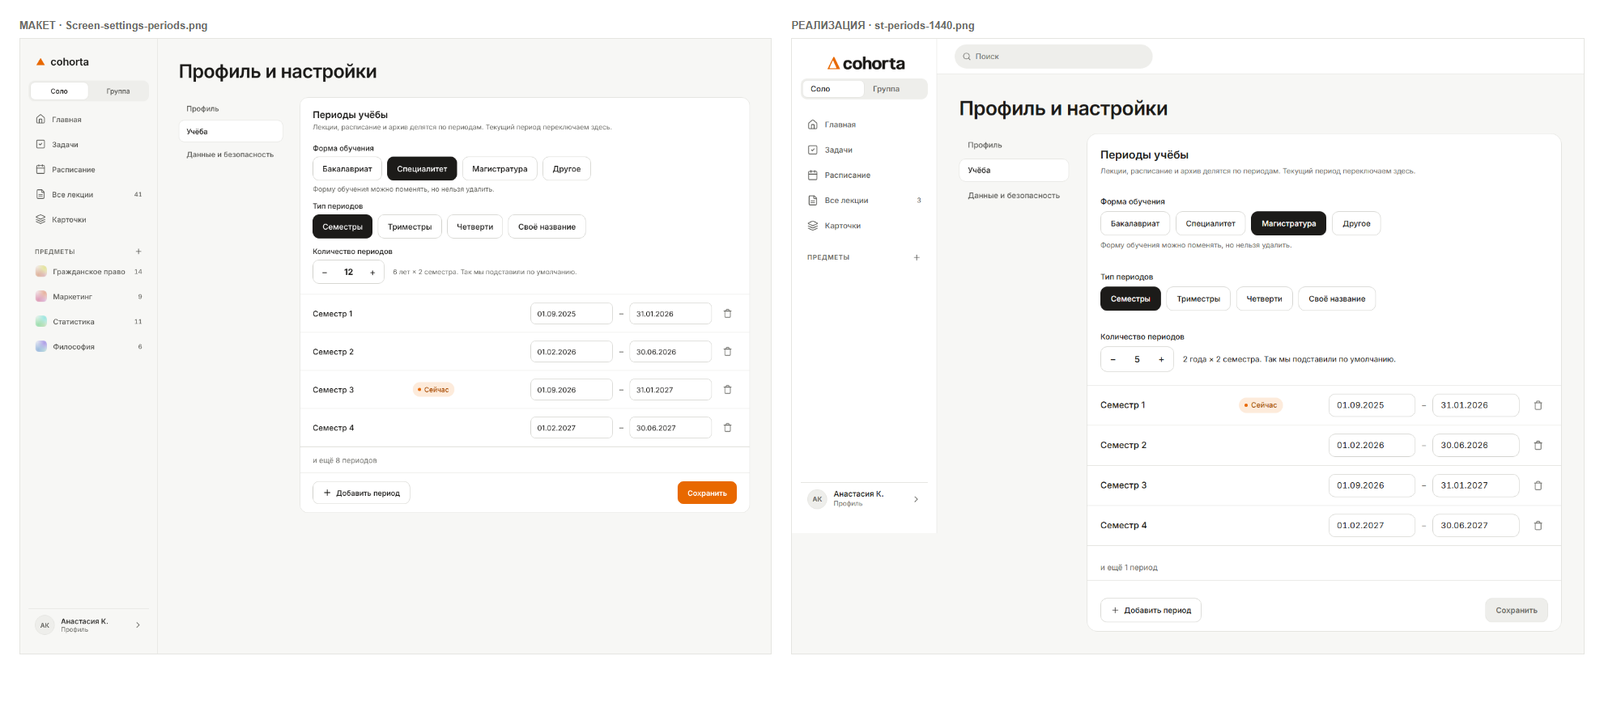
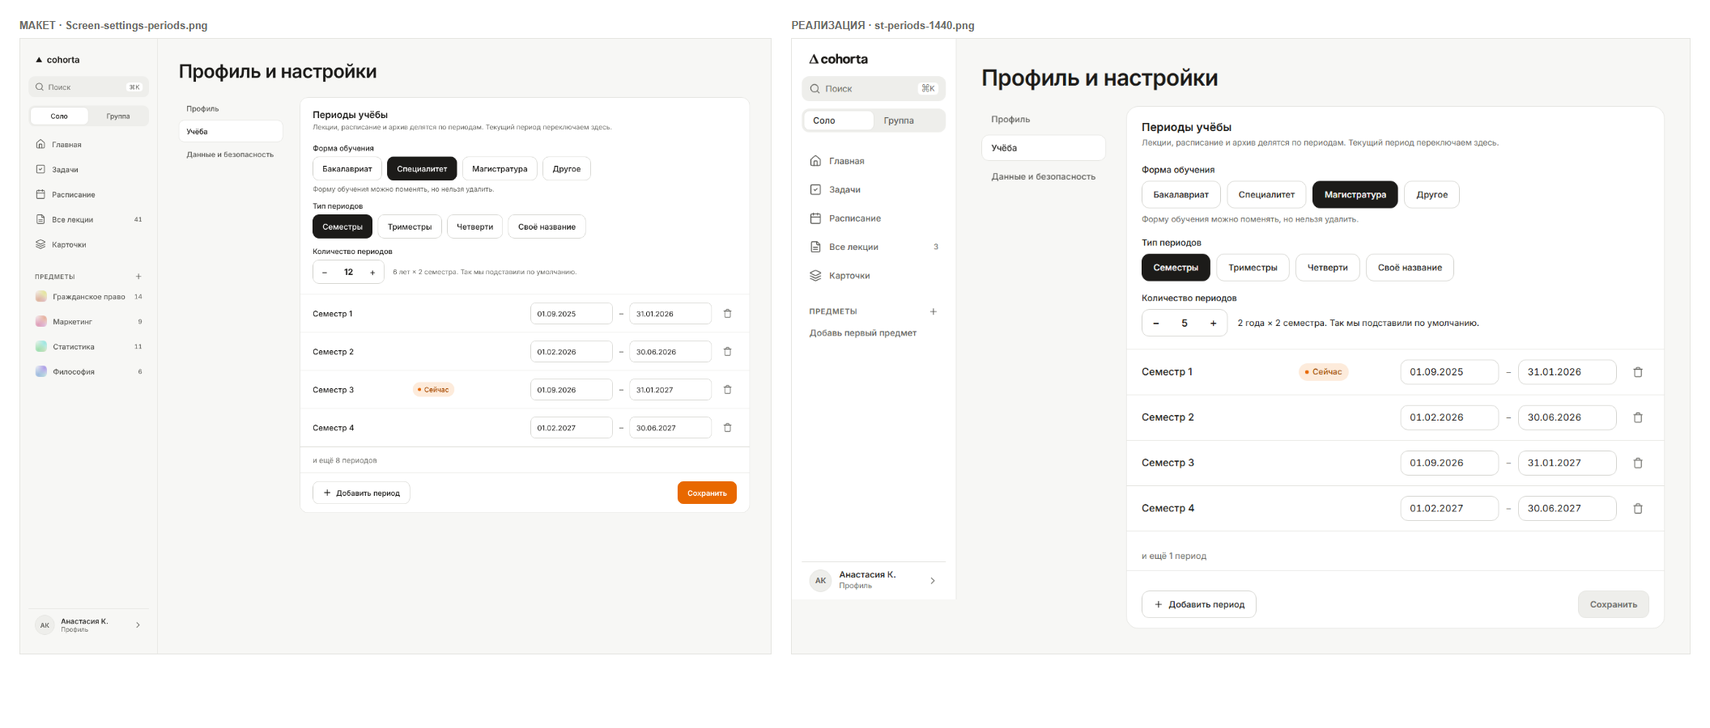
docs(design): B6 — принято; токен --radius-field, скриншоты рядом с макетами, PROGRESS и decisions

diff --git a/apps/web/src/styles/components.css b/apps/web/src/styles/components.css
@@ -3502,7 +3502,7 @@ button.c-cards-row:focus-visible { outline: 2px solid var(--ink); outline-offset
 .c-onb-unis button.manual { border-top: 1px dashed var(--line-strong); color: var(--ink-3); min-height: 44px; }
 .c-onb-link { align-self: flex-start; background: none; border: 0; padding: 0; font: 500 14px/1 var(--font-sans); color: var(--accent-strong); cursor: pointer; }
 .c-onb-chips { display: flex; flex-wrap: wrap; gap: 10px; }
-.c-onb-chip { height: var(--control-md); padding: 0 18px; border-radius: var(--radius-md); border: 1px solid var(--line-strong); background: var(--surface); color: var(--ink); font: 500 14px/1 var(--font-sans); cursor: pointer; }
+.c-onb-chip { height: var(--control-md); padding: 0 18px; border-radius: var(--radius-field); border: 1px solid var(--line-strong); background: var(--surface); color: var(--ink); font: 500 14px/1 var(--font-sans); cursor: pointer; }
 .c-onb-chip.on { background: var(--ink); border-color: var(--ink); color: var(--on-ink); }
 .c-onb-round { width: 46px; height: 46px; border-radius: 50%; border: 1px solid var(--line-strong); background: var(--surface); color: var(--ink); font: 500 14px/1 var(--font-sans); cursor: pointer; }
 .c-onb-round.on { background: var(--ink); border-color: var(--ink); color: var(--on-ink); }
@@ -3607,7 +3607,7 @@ button.c-cards-row:focus-visible { outline: 2px solid var(--ink); outline-offset
 .c-period-row .cur-btn { opacity: 0; font: 500 13px/1 var(--font-sans); color: var(--accent-strong); background: none; border: 0; cursor: pointer; padding: 4px 0; }
 .c-period-row:hover .cur-btn, .c-period-row:focus-within .cur-btn { opacity: 1; }
 .c-period-row .dates { display: flex; align-items: center; gap: 12px; color: var(--ink-3); }
-.c-period-row .dates input { width: 158px; height: 40px; padding: 0 14px; box-sizing: border-box; border-radius: var(--radius-md); border: 1px solid var(--line-strong); background: var(--surface); font: 400 15px/1 var(--font-sans); color: var(--ink); font-variant-numeric: tabular-nums; }
+.c-period-row .dates input { width: 158px; height: 40px; padding: 0 14px; box-sizing: border-box; border-radius: var(--radius-field); border: 1px solid var(--line-strong); background: var(--surface); font: 400 15px/1 var(--font-sans); color: var(--ink); font-variant-numeric: tabular-nums; }
 .c-period-row .dates input.bad { border-color: var(--danger); }
 .c-period-row .del { width: 36px; height: 36px; border: 0; background: transparent; color: var(--ink-3); cursor: pointer; border-radius: var(--radius-sm); display: inline-flex; align-items: center; justify-content: center; }
 .c-period-row .del:hover { background: var(--sunken); color: var(--danger-text); }

diff --git a/apps/web/src/styles/tokens.css b/apps/web/src/styles/tokens.css
@@ -176,6 +176,7 @@
   --radius-lg: 16px;
   --radius-xl: 20px;
   --radius-pill: 999px;
+  --radius-field: 12px; /* поля дат и кнопки периодов; в макете 10, отдельный токен, пока нет такого в дизайн-системе */
   --touch-min: 44px;
   --control-sm: 36px;
   --control-md: 44px;

diff --git a/docs/design/PROGRESS.md b/docs/design/PROGRESS.md
@@ -37,7 +37,7 @@
 | **B5. Квиз и понимание темы** (ветка `design/b5-quiz`, от `design/b4-exam`) | 🟡 сделано, ждёт приёмки | Нижняя панель телефона на пять мест + `/more` + `/profile`; панель «Твоё понимание темы» в четырёх состояниях (десктоп колонка, телефон шторка по «Понимание»); окна создания квиза (размер, ожидание, ошибка, мало текста, лимит); прохождение `/quiz/:lectureId` с продолжением после выхода; итог. Лимиты: 5 в день, 300 знаков. **Квиз принадлежит лекции:** создаёт только владелец, гость проходит готовый, ответы личные (миграция `1790004000_quiz_access_rules.js`, применена только локально). Исправлена ширина на телефоне (Главная, редактор, задачи). Тесты: `quizPanelState`, `quizSummary`, серверная функция (`src/server/quizGenerate.test.ts`), приватность ответов и гостевой доступ (`tests/quiz-privacy.spec.ts`, 11 проверок). |
 | **B5. Карточки** (ветка `design/b5-cards`, от `design/b5-quiz`) | 🟡 сделано, ждёт приёмки | `/decks` (список колод), `/decks/:slug` (колода), `/decks/:slug/review` и `/cards/review` (повторение): оболочка по `Screen-cards`, `-deck`, `-cards-review`, `-m-cards`, `-m-deck`, без расписания повторов (решение владелицы). Тест очереди: `lib/cardQueue.test.ts`. |
 | **B5 v3. Сверка квиза, понимания, карточек** (ветка `design/b5-quiz-cards`, от `design/b1-editor-mobile`, запушена в remote `cohorta` 21.10) | ✅ принято владелицей | Кнопка «Понимание» в шапке лекции на телефоне, «Открыть квиз лекции» в окне лимита, форма «Новая карточка» (с полем «Лекция»), миграция `deck_cards.lecture` (только локально), причина ошибки PocketBase в тексте. Подробно — раздел «Волна B5 — сверка 21 октября» ниже. Тесты `vitest` 201, `tests/deck-card-lecture.spec.ts` и `tests/quiz-privacy.spec.ts` 15 из 15. |
-| **B6. Вход, онбординг, настройки** (ветка `design/b6-auth-settings`, от `design/b5-cards`; сверка 21.10 — ветка `design/b6-auth-settings-v2`, от `design/b5-quiz-cards`) | 🟡 сделано, ждёт приёмки | Вход, регистрация, «не помнишь пароль», политика, вступление по ссылке, онбординг в 4 шага, настройки с правкой в строке, периоды учёбы, корзина, удаление аккаунта (14 дней), служебные состояния (очередь без связи, сессия, 404), профиль и «Ещё» на телефоне. Подробно — раздел «Волна B6 — итоги» ниже. |
+| **B6. Вход, онбординг, настройки** (ветка `design/b6-auth-settings`, от `design/b5-cards`; сверка 21.10 — ветка `design/b6-auth-settings-v2`, от `design/b5-quiz-cards`) | ✅ принято владелицей 21.10 | Ветка `design/b6-auth-settings` (старая) **запушена** в remote `cohorta`; `design/b6-auth-settings-v2` **не запушена** (проверено `git ls-remote`). Вход, регистрация, «не помнишь пароль», политика, вступление по ссылке, онбординг в 4 шага, настройки с правкой в строке, периоды учёбы, корзина, удаление аккаунта (14 дней), служебные состояния (очередь без связи, сессия, 404), профиль и «Ещё» на телефоне. Подробно — раздел «Волна B6 — итоги» ниже. |
 | **C. Группа** | ⛔ не начато (кроме серверной части из A0.5) | Без изменений. |
 | **D. Состояния и уборка** | ⛔ не начато | Без изменений. |
 
@@ -96,7 +96,7 @@
 
 ## Волна B6 — итоги сессии (19 октября 2026, ветка `design/b6-auth-settings`, от `design/b5-cards`)
 
-**Ветка и коммиты** (ничего не запушено, в `main` ничего не влито): документы и макеты 19.10 → правки B5 по iPhone → вход и вступление по ссылке → миграции и серверные маршруты → онбординг → корзина и удаление аккаунта → служебные состояния → настройки, периоды, профиль, карта переходов.
+**Ветка и коммиты** (ветка `design/b6-auth-settings` позже запушена в remote `cohorta`, в `main` ничего не влито): документы и макеты 19.10 → правки B5 по iPhone → вход и вступление по ссылке → миграции и серверные маршруты → онбординг → корзина и удаление аккаунта → служебные состояния → настройки, периоды, профиль, карта переходов.
 
 **Сделано**
 - **Правки B5 по тесту на iPhone 13:** «Начать конспект» на Главной контурная и не налезает на название пары; на «Профиле» нет верхней строки (аватар не прячется); вкладки задач не переносят числа (на телефоне сжаты, при нехватке места прокручиваются); меню «/» в редакторе считается по видимой области (над клавиатурой или под строкой, где больше места). Меню «/» проверено только в окне 390×500 (настоящую клавиатуру на устройстве не проверял).
@@ -155,21 +155,21 @@
 **Проверено**
 - `tsc -b`, `vitest run` (201), `oxlint` без новых замечаний. Скрипта design-check в проекте нет.
 - Сквозные прогоны (`apps/web/scripts/b6-*.mjs`, одноразовые пользователи): новый пользователь проходит онбординг до `/s/1` (1440 и 390); ссылка-приглашение → регистрация → подтверждение → вступление; настройки (правка в строке, оглавление, периоды, корзина через API 404/200, удаление аккаунта с отменой); служебные состояния (404, нет связи, сессия истекла, текст не теряется); вход, выход, восстановление сессии, выгрузка ZIP.
-- Скриншоты 1440 и 390 снимались во временную папку сессии: настройки, периоды, корзина (пустая), профиль, «Занятия», вход, регистрация. В `docs/screenshots` не копировались.
+- Скриншоты рядом с макетами лежат в `docs/screenshots/b6/` (слева макет, справа реализация): вход, регистрация (десктоп и телефон), политика, «Вступить в группу», онбординг 1–4, настройки, правка в строке, периоды, корзина с двумя записями (лекция и предмет, «30 дней»), удаление аккаунта (шаг 1 рядом с макетом, шаги 2 и 3 отдельно), служебные состояния, «Занятия», профиль Соло и Группа, периоды и корзина на телефоне. Телефонных макетов у онбординга, политики, правки в строке нет: их 390-снимки лежат отдельно с суффиксом `-390-реализация`. Скрипты: `apps/web/scripts/b6-*.mjs`, склейка — `b6-compare.mjs`.
 
 **Отличается от макета**
-- Поля дат и кнопки периодов: радиус 12 (в макете 10, токена нет).
-- Корзина проверена пустой (на демо-аккаунте нет удалённого); с записями её смотрели 19.10.
-- «Начало недели» в настройках не сделано: в базе нет поля, нужна миграция, ждёт решения.
+- Поля дат и кнопки периодов: радиус 12 (в макете 10). Решение владелицы 21.10: оставить 12, заведён токен `--radius-field: 12px` в `apps/web/src/styles/tokens.css` (в дизайн-системе такого токена нет), он используется в `.c-onb-chip` и полях дат периодов.
+- **Открыто:** «Начало недели» в настройках не выводится (строки на экране нет). В базе нет поля, нужна миграция; обсудим отдельно, миграцию без «ок» владелицы не делать.
 - Строка «Уведомления» на профиле телефона скрыта по решению владелицы (экрана настроек уведомлений в MVP нет; есть только точка, всплывающее сообщение и бейдж «Новое»). **Открыто.**
 - «Периоды учёбы» на телефоне без текущего периода показывают «Семестры и даты» (у демо-аккаунта нет текущего).
 
 **Решения владелицы 21.10 и открытое**
-- Очередь без связи только для текста лекции — принято для MVP. Задачи, карточки, билеты, настройки при обрыве связи показывают прежнюю ошибку сохранения без очереди и без общего «Повторить»: состояния «не удалось сохранить» для них в `Screen-session-states` нет, не придумывал. **Открыто.**
+- Очередь без связи только для текста лекции — принято для MVP. Состояние «Не удалось сохранить» для задач, карточек, билетов и настроек не делаем: владелица нарисует и пришлёт отдельным промптом. **Открыто.**
 - Сброс пароля письмом: экраны готовы, выключены `VITE_AUTH_EMAIL`; «Забыли пароль?» ведёт на «Напиши в поддержку». **Включить, когда появится почта.**
 - Корзина 30 дней и `deleted_at` приняты, миграции не нужны.
 - Передача группы (`Screen-group-leave`, `-transfer`) — волна C; владелец группы с участниками пока не может удалить аккаунт.
-- Прод (Amvera): миграции `1790005000`, `1790006000` и хуки B6 ещё не накатаны.
+- Прод (Amvera): миграции `1790005000`, `1790006000` и хуки B6 не накатываем. Решение владелицы 21.10: накатим одним разом после волны C; **напомнить ей сделать копию `pb_data` перед накаткой** (вместе с `1790004000`, `1790008000` и ожидающей `1790007000`).
+- Правило работы: файлы, которые владелица заменяет из zip (`ia/userflow.md`, `.json`, `docs/design/*`), не откатывать через `git checkout`/`reset`; при необходимости откатить — сначала спросить.
 
 ## Волна B2 v2 — итоги сессии (ветка `design/b2-lectures-search-v2`, от `design/b6-auth-settings`)
 
@@ -286,7 +286,7 @@
 
 ## Что дальше
 
-B6 готова и ждёт приёмки: ветка `design/b6-auth-settings` (не запушена). Нужны решения владелицы: пуш и preview, накатка миграций и хуков на Amvera, ответы на вопросы в разделе B6 («Не сделано / открыто»). Дальше по плану — волна C (группа: чужая лекция для чтения, «Мой доступ», передача группы, экзамены группы); без передачи группы владельцы с участниками не смогут удалить аккаунт.
+B6 принята владелицей 21.10: ветка `design/b6-auth-settings` (запушена), сверка — `design/b6-auth-settings-v2` (не запушена). Нужны решения владелицы: пуш и preview, накатка миграций и хуков на Amvera, ответы на вопросы в разделе B6 («Не сделано / открыто»). Дальше по плану — волна C (группа: чужая лекция для чтения, «Мой доступ», передача группы, экзамены группы); без передачи группы владельцы с участниками не смогут удалить аккаунт.
 
 ## Состояние на конец сессии 21 октября (редактор лекции, экзамен)
 

diff --git a/docs/decisions.md b/docs/decisions.md
@@ -270,3 +270,6 @@
 - **Сброс пароля письмом:** выключено флагом `VITE_AUTH_EMAIL`, пока нет почты; «Забыли пароль?» ведёт на «Напиши в поддержку».
 - **Корзина:** 30 дней и `deleted_at` приняты, новая миграция не нужна.
 - **Регистрация уже входа** (400 и 420 px) — так в макетах `Screen-register` и `Screen-login`.
+- **Токен `--radius-field: 12px`** (владелица, 21.10): поля дат и кнопки периодов в макете со скруглением 10, оставлено 12; значение вынесено в токен приложения, в дизайн-системе его нет.
+- **«Начало недели»:** в настройках не показывается, пока нет поля в базе; миграция только после «ок».
+- **Прод:** миграции и хуки B6 накатываются после волны C одним разом, перед этим копия `pb_data`.
